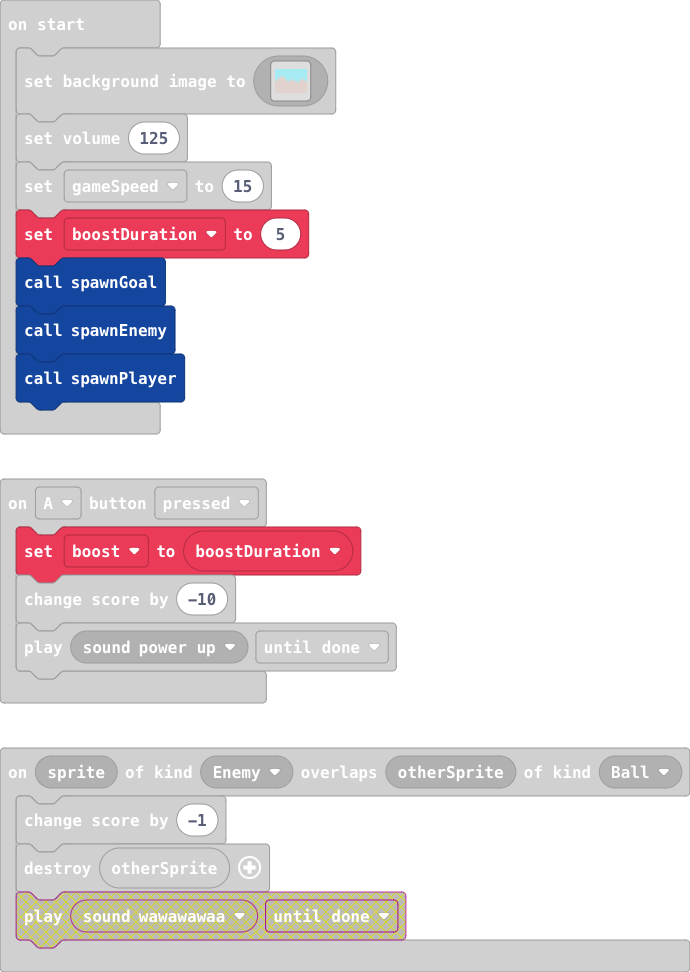
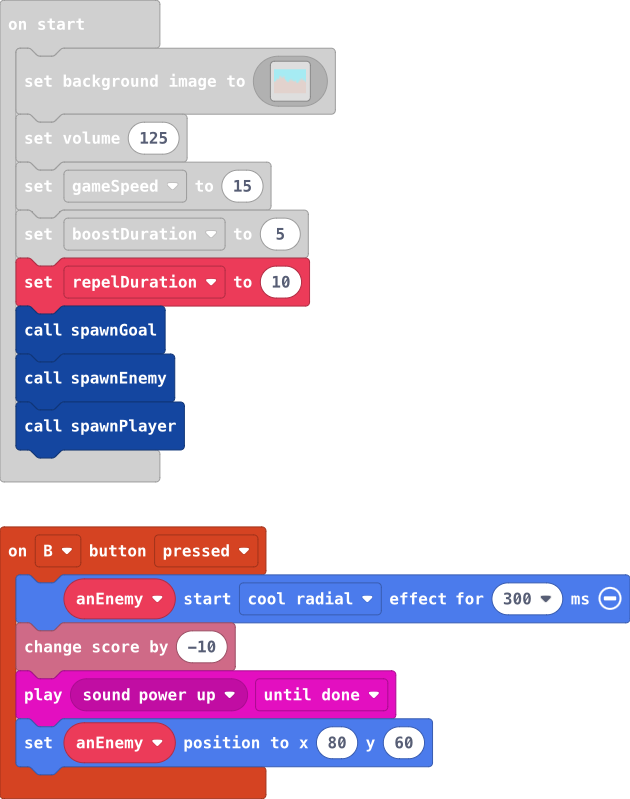
Update main.blocks, main.ts

diff --git a/main.ts b/main.ts
@@ -13,6 +13,12 @@ sprites.onOverlap(SpriteKind.Player, SpriteKind.Ball, function (sprite, otherSpr
     music.play(music.melodyPlayable(music.baDing), music.PlaybackMode.UntilDone)
     sprites.destroy(otherSprite)
 })
+controller.B.onEvent(ControllerButtonEvent.Pressed, function () {
+    anEnemy.startEffect(effects.coolRadial, 300)
+    info.changeScoreBy(-10)
+    music.play(music.melodyPlayable(music.powerUp), music.PlaybackMode.UntilDone)
+    anEnemy.setPosition(80, 60)
+})
 function spawnBall () {
     aBall = sprites.create(img`
         . . . . . . . . . . . . . . . . 
@@ -314,7 +320,6 @@ function spawnEnemy () {
     anEnemy.y = 100
     anEnemy.setStayInScreen(true)
 }
-let anEnemy: Sprite = null
 let aPlayer: Sprite = null
 let petSpeed = 0
 let aPet: Sprite = null
@@ -322,6 +327,7 @@ let enemySpeed = 0
 let boost = 0
 let ballCount = 0
 let aBall: Sprite = null
+let anEnemy: Sprite = null
 let boostDuration = 0
 let gameSpeed = 0
 scene.setBackgroundImage(img`
@@ -449,6 +455,7 @@ scene.setBackgroundImage(img`
 music.setVolume(125)
 gameSpeed = 15
 boostDuration = 5
+let repelDuration = 10
 spawnGoal()
 spawnEnemy()
 spawnPlayer()
